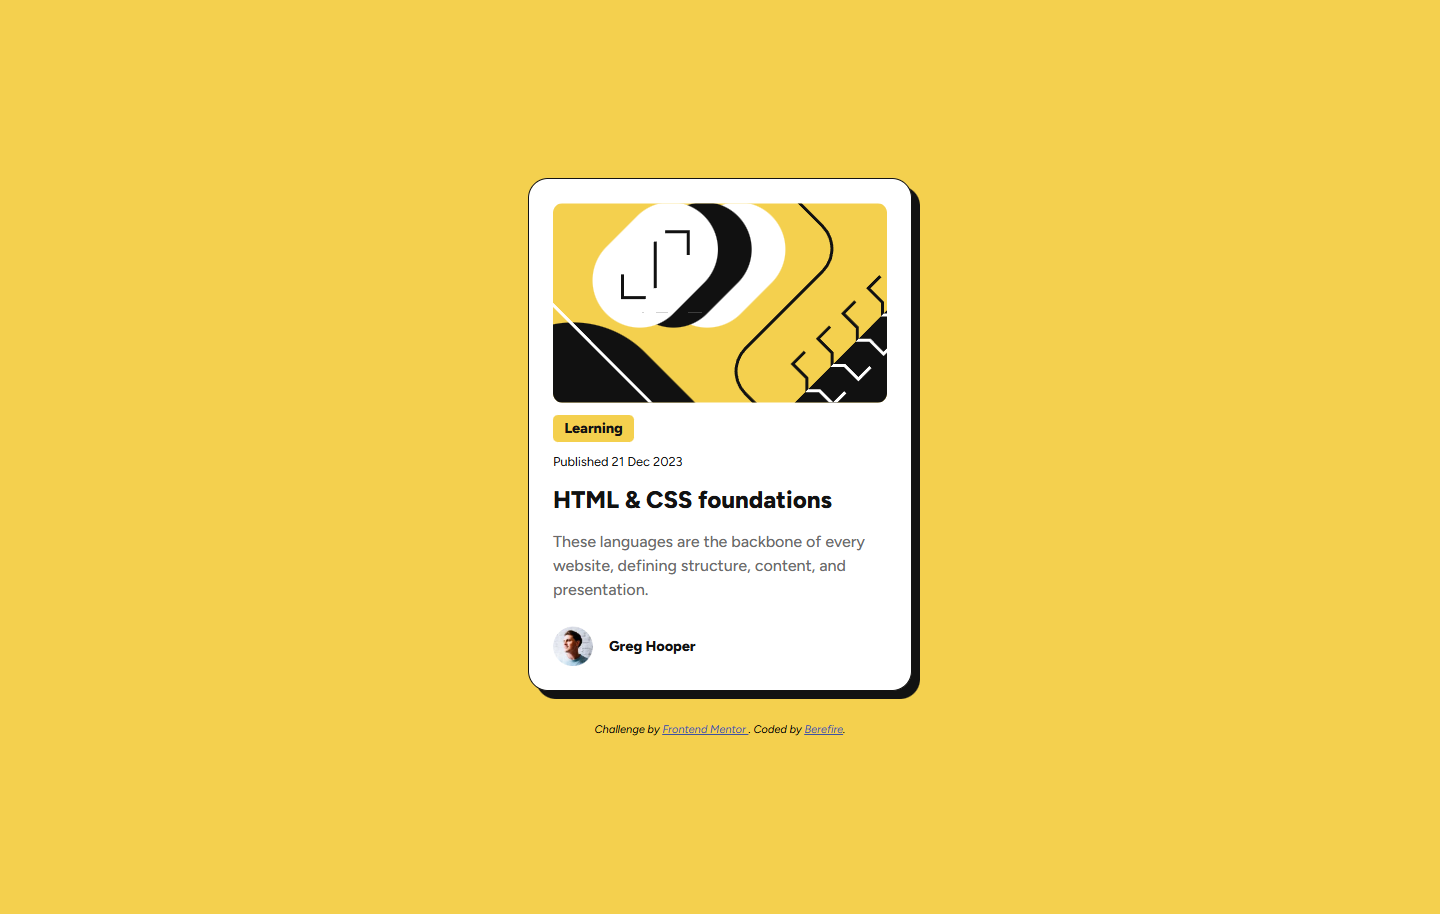
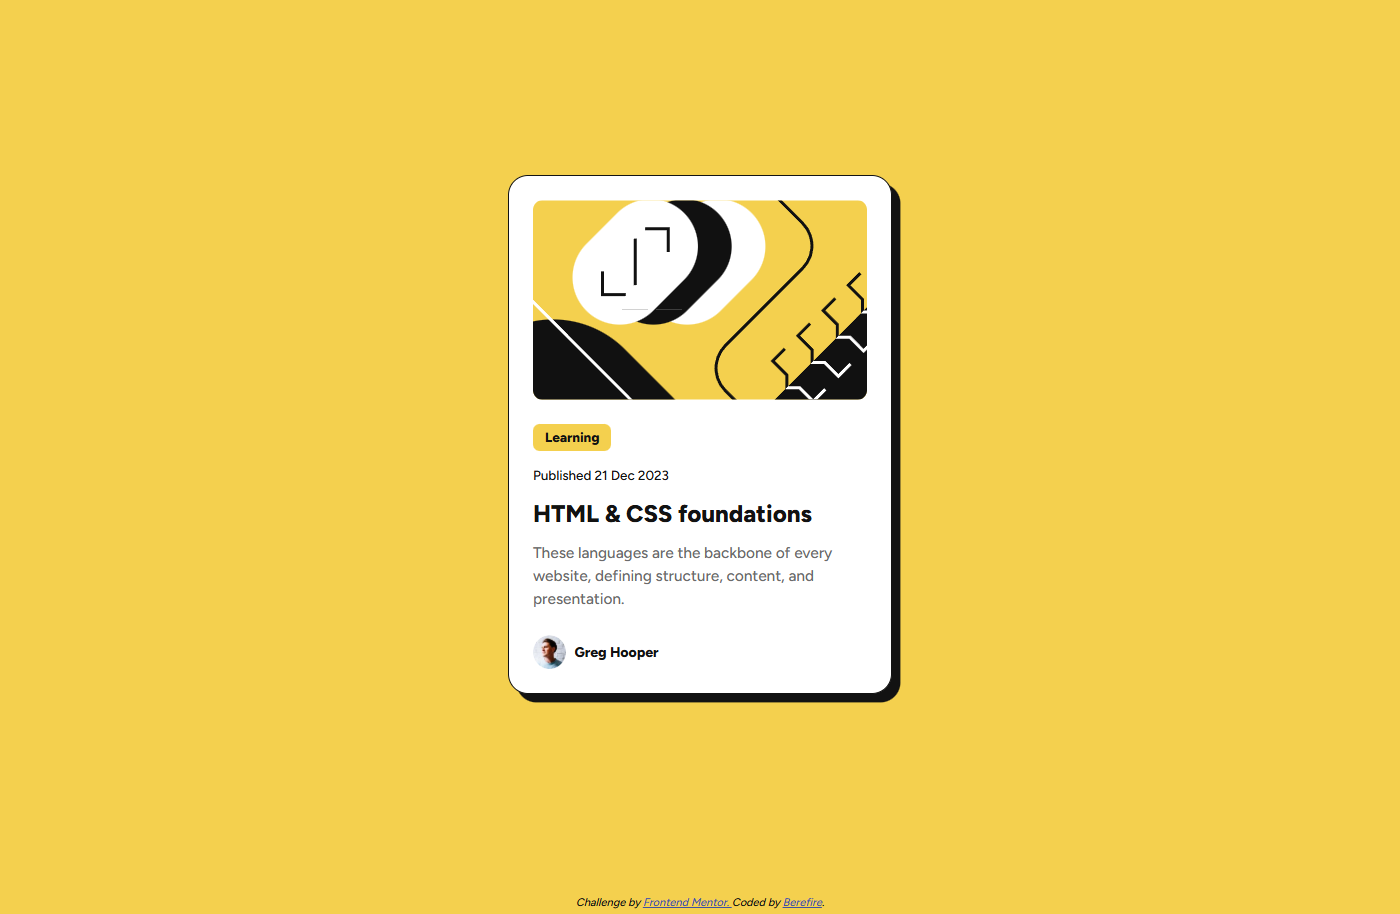
refactor: improve HTML/CSS structure to mobile-first approach

Changed region(s): [[0.3379, 0.1838, 0.645, 0.8271], [0.3993, 0.9803, 0.5836, 1.0]]

diff --git a/css/styles.css b/css/styles.css
@@ -1,0 +1,195 @@
+/* || DECLARE FIGTREE FONT */
+@font-face {
+  font-family: "Figtree";
+  font-style: normal;
+  font-weight: 500 800;
+  font-display: swap;
+  src: url("../assets/fonts/Figtree-VariableFont_wght.ttf") format("truetype");
+}
+
+/* || RESET */
+*,
+*::after,
+*::before {
+  margin: 0;
+  padding: 0;
+  box-sizing: border-box;
+}
+
+img {
+  display: block;
+  max-width: 100%;
+  height: auto;
+}
+
+input,
+button,
+textarea {
+  font: inherit;
+}
+
+
+/* || VARIABLES */
+:root {
+
+  /* COLORS */
+  --yellow-color: hsl(47, 88%, 63%);
+  --white-color: hsl(0, 0%, 100%);
+  --gray-500-color: hsl(0, 0%, 42%);
+  --gray-950-color: hsl(0, 0%, 7%);
+  --primary-blue-color: hsl(228, 45%, 44%);
+  
+  /* SHADOWS */
+  --box-shadow: 0.525rem 0.525rem 0 0 hsl(0, 0%, 7%);
+
+  /* FONTS */
+  --figtree--font: "Figtree", sans-serif;
+  --font-size-general: 0.75rem;
+  --font-size-type-date: clamp(0.75rem, 0.725rem + 0.125vw, 0.875rem);
+  --font-size-description-author: 0.875rem;
+  --font-size-description: clamp(0.875rem, 0.85rem + 0.125vw, 1rem);
+ 
+  /* PADDING */
+  --body-padding: clamp(1.5rem, 3vw, 2rem);
+  --blog-card-padding: clamp(1.5rem, 2vw, 2rem);
+}
+
+
+html {
+  font-family: var(--figtree--font);
+  background-color: var(--yellow-color);
+  color: var(--gray-950-color);
+}
+
+html,
+body {
+  height: 100%;
+}
+
+body {
+  display: flex;
+  flex-direction: column;
+  justify-content: center;
+  align-items: center;
+  height: 100%;
+  padding: var(--body-padding)
+}
+
+.layout {
+  display: flex;
+  justify-content: center;
+  align-items: center;
+  min-height: 94vh;
+}
+
+.blog-card {
+  padding: var(--blog-card-padding);
+  width: 100%;
+  max-width: 24rem;
+  text-align: left;
+  border-radius: 1.25rem;
+  border: 1px solid var(--gray-950-color);
+  background-color: var(--white-color);
+  box-shadow: var(--box-shadow);
+}
+
+.blog-card__image-wrapper{
+  height: 12.5rem;
+  border-radius: 0.625rem;
+  overflow: hidden;
+  margin-block-end: 1.5rem;
+}
+
+.blog-card__image {
+  object-fit: cover;
+  height: 100%;
+}
+
+.blog-card__category {
+  display: block;
+  background-color: var(--yellow-color);
+  font-weight: 800;
+  font-size: var(--font-size-general);
+  font-size: var(--font-size-type-date);
+  width: fit-content;
+  padding: 0.35rem 0.75rem;
+  border-radius: 0.425rem;
+}
+
+.blog-card__date {
+  display: block;
+  font-size: var(--font-size-general);
+  font-size: var(--font-size-type-date);
+  height: fit-content;
+  margin-block: 1rem;
+}
+
+.blog-card__title {
+  font-size: clamp(1.25rem, 4vw, 1.5rem);
+  font-weight: 800;
+  margin: 0.75rem 0;
+  line-height: 1.25;
+}
+
+.blog-card__title-link {
+  text-decoration: none;
+  color: inherit;
+  cursor: pointer;
+  transition: color 0.2s ease;
+}
+
+.blog-card__title-link:hover,
+.blog-card__title-link:focus-visible {
+  color: var(--yellow-color);
+}
+
+.blog-card__description {
+  color: var(--gray-500-color);
+  font-size: var(--font-size-description);
+  font-weight: 500;
+  line-height: 1.5;
+  margin-block-end: 1.6rem;
+}
+
+.blog-card__author {
+  display: flex;
+  align-items: center;
+}
+
+.blog-card__author-name {
+  font-size: var(--font-size-description-author);
+  font-weight: 800;
+  font-style: normal;
+  color: var(--gray-950-color);
+  align-self: center;
+  margin-inline-start: 0.5rem;
+}
+
+.blog-card__author-image {
+  width: 10%;
+  height: auto;
+  border-radius: 50%;
+  object-fit: cover;
+}
+
+.attribution {
+  font-size: 0.6875rem;
+  text-align: center;
+  margin-block-start: 2rem;
+}
+.attribution-link {
+  color: var(--primary-blue-color);
+}
+
+@media (min-width: 48rem) {
+  .blog-card {
+    padding: 1.5rem;
+    border-radius: 1.25rem;
+  }
+}
+
+@media (prefers-reduced-motion: reduce) {
+  .blog-card__title-link {
+    transition: none;
+  }
+}

diff --git a/index.html b/index.html
@@ -1,58 +1,59 @@
 <!DOCTYPE html>
 <html lang="en">
+
 <head>
   <meta charset="UTF-8">
-  <meta name="viewport" content="width=device-width, initial-scale=1.0"> <!-- displays site properly based on user's device -->
+  <meta name="viewport" content="width=device-width, initial-scale=1.0">
 
-  <link rel="preconnect" href="https://fonts.googleapis.com">
-  <link rel="preconnect" href="https://fonts.gstatic.com" crossorigin>
-  <link href="https://fonts.googleapis.com/css2?family=Figtree:ital,wght@0,300..900;1,300..900&family=Outfit:wght@100..900&display=swap" rel="stylesheet">
+  <meta name="author" content="Berefire">
+  <meta name="description" content="description"
+    content="Blog preview card built with HTML and CSS, showcasing clean semantics, accesiblity, and responsive design.">
 
   <link rel="icon" type="image/png" sizes="32x32" href="./assets/images/favicon-32x32.png">
-  <link rel="stylesheet" href="./styles.css" type="text/css">
-  
+  <link rel="stylesheet" href="./css/styles.css" type="text/css">
+
   <title>Frontend Mentor | Blog preview card</title>
 
 </head>
+
 <body>
-  <main>
-    <section class="learningCard" aria-labelledby="card-title">
-      <img class="learningCard__image" src="./assets/images/illustration-article.svg" alt="Illustration Article">
-      <span 
-        class="learningCard__category" 
-        aria-label="Category"
-      >
+  <main class="layout">
+    <section class="blog-card" aria-labelledby="blog-card-title">
+      <div class="blog-card__image-wrapper">
+        <img class="blog-card__image" src="./assets/images/illustration-article.svg" alt="Illustration Article">
+      </div>
+
+      <span class="blog-card__category" aria-label="Category">
         Learning
       </span>
-      <p class="learningCard__date">
+      <p class="blog-card__date">
         Published <time datetime="2023-12-21">21 Dec 2023</time>
       </p>
-      <h1 id="card-title" class="learningCard__title">
-        <a href="#" class="learningCard__title-link">
+      <h1 id="blog-card-title" class="blog-card__title">
+        <a href="#" class="blog-card__title-link">
           HTML & CSS foundations
         </a>
       </h1>
-      <p class="learningCard__description">
+      <p class="blog-card__description">
         These languages are the backbone of every website, defining structure, content, and presentation.
       </p>
-      <address class="learningCard__author">
-        <img class="learningCard__author-image" src="./assets/images/image-avatar.webp" alt="Greg Hooper Avatar">
-        <p class="learningCard__author-name">Greg Hooper</p>
+      <address class="blog-card__author">
+        <img class="blog-card__author-image" src="./assets/images/image-avatar.webp" alt="Greg Hooper Avatar">
+        <p class="blog-card__author-name">Greg Hooper</p>
       </address>
     </section>
   </main>
-<footer>
-  
-  <address class="learningCard__attribution">
-    Challenge by 
-    <a 
-      class="learningCard__attribution-link" 
-      href="https://www.frontendmentor.io?ref=challenge" target="_blank" 
-      rel="noopener noreferrer">
+  <footer>
+
+    <address class="attribution">
+      Challenge by
+      <a class="attribution-link" href="https://www.frontendmentor.io?ref=challenge" target="_blank"
+        rel="noopener noreferrer">
         Frontend Mentor.
-    </a>
-    Coded by <a class="learningCard__attribution-link" href="#">Berefire</a>.
-  </address>
-</footer>
+      </a>
+      Coded by <a class="attribution-link" href="#">Berefire</a>.
+    </address>
+  </footer>
 </body>
+
 </html>
